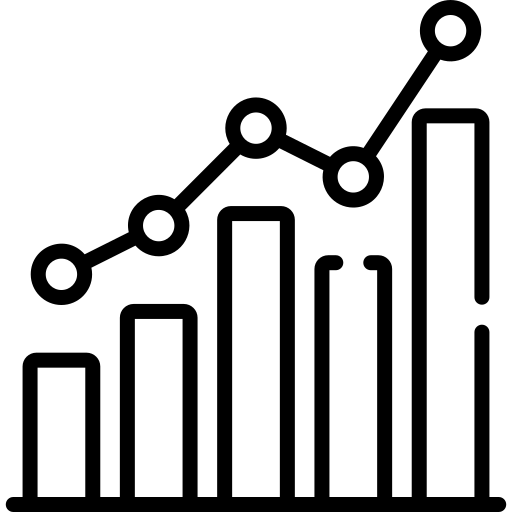
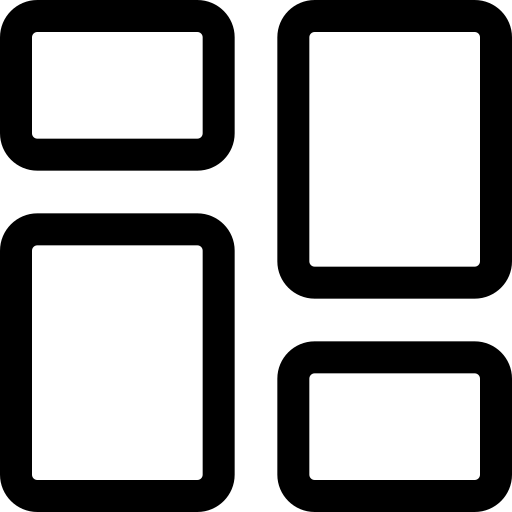
feat: implement collapsible AdminSidebar component with navigation and dropdown submenus

diff --git a/frontend/features/admin/components/AdminSidebar.tsx b/frontend/features/admin/components/AdminSidebar.tsx
@@ -224,8 +224,8 @@ export default function AdminSidebar({
                       sizes="20px"
                       className={`object-contain w-full h-full transition-all duration-200 ${
                         isActive
-                          ? "brightness-0 dark:brightness-0 dark:invert"
-                          : "brightness-0 invert dark:brightness-0 dark:opacity-60 group-hover:dark:opacity-100"
+                          ? "brightness-0 invert opacity-100"
+                          : "brightness-0 invert opacity-70 group-hover:opacity-100"
                       }`}
                     />
                   </div>
